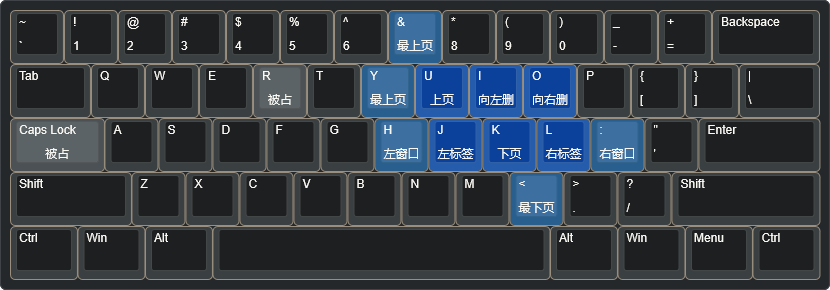
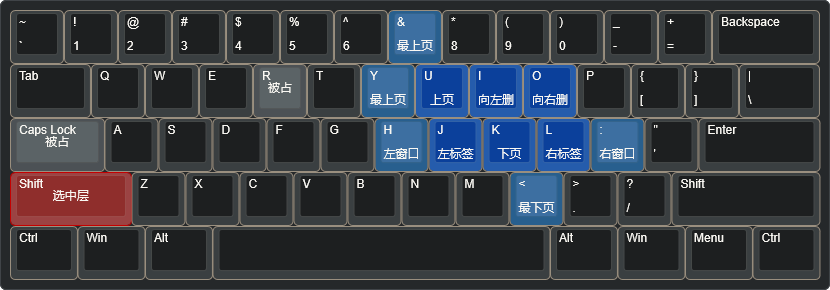
docs(kanata): update

Changed region(s): [[0.0, 0.5897, 0.1807, 0.8069], [0.3012, 0.2793, 0.3614, 0.3724], [0.0301, 0.4655, 0.0904, 0.5586]]

diff --git a/Kanata/InstallerAndScript/keyboard-layout-backup.md b/Kanata/InstallerAndScript/keyboard-layout-backup.md
@@ -17,8 +17,8 @@
 ```json
 ["~\n`","!\n1","@\n2","#\n3","$\n4","%\n5","^\n6",{c:"#2D6CA1"},"&\n\n\n\n\n\n\n\n\n\n最上",{c:"#cccccc"},"*\n8","(\n9",")\n0","_\n-","+\n=",{w:2},"Backspace"],
 [{w:1.5},"Tab","Q","W",{c:"#b35050"},"E\n\n\n\n\n\n\n\n\n数字层","R\n\n\n\n\n\n\n\n\n页层\n选中页","T\n\n\n\n\n\n\n\n\n数字层",{c:"#2D6CA1"},"Y\n\n\n\n\n\n\n\n\n\n最上",{c:"#407DD5"},"U\n\n\n\n\n\n\n\n\n\n上",{c:"#2D6CA1"},"I\n\n\n\n\n\n\n\n\n\n向左删","O\n\n\n\n\n\n\n\n\n\n向右删",{c:"#cccccc"},"P","{\n[","}\n]",{w:1.5},"|\n\\"],
-[{c:"#615555",w:1.75},"Caps Lock\n\n\n\n\n\n\n\n\n\n被占",{c:"#cccccc"},"A","S",{c:"#b35050"},"D\n\n\n\n\n\n\n\n\n词层\n选中词","F\n\n\n\n\n\n\n\n\n行层\n选中行","G\n\n\n\n\n\n\n\n\n词层\n选中词",{c:"#2D6CA1"},"H\n\n\n\n\n\n\n\n\n\n最左",{c:"#407DD5"},"J\n\n\n\n\n\n\n\n\n\n左","K\n\n\n\n\n\n\n\n\n\n下","L\n\n\n\n\n\n\n\n\n\n右",{c:"#2D6CA1"},":\n\n\n\n\n\n\n\n\n\n最右",{c:"#cccccc"},"\"\n'",{w:2.25},"Enter"],
-[{w:2.25},"Shift","Z","X","C","V","B","N","M",{c:"#2D6CA1"},"<\n\n\n\n\n\n\n\n\n\n最下",{c:"#cccccc"},">\n.","?\n/",{w:2.75},"Shift"],
+[{c:"#615555",w:1.75},"Caps Lock\n\n\n\n\n\n\n\n\n被占",{c:"#cccccc"},"A","S",{c:"#b35050"},"D\n\n\n\n\n\n\n\n\n词层\n选中词","F\n\n\n\n\n\n\n\n\n行层\n选中行","G\n\n\n\n\n\n\n\n\n词层\n选中词",{c:"#2D6CA1"},"H\n\n\n\n\n\n\n\n\n\n最左",{c:"#407DD5"},"J\n\n\n\n\n\n\n\n\n\n左","K\n\n\n\n\n\n\n\n\n\n下","L\n\n\n\n\n\n\n\n\n\n右",{c:"#2D6CA1"},":\n\n\n\n\n\n\n\n\n\n最右",{c:"#cccccc"},"\"\n'",{w:2.25},"Enter"],
+[{c:"#b35050",w:2.25},"Shift\n\n\n\n\n\n\n\n\n选中层",{c:"#cccccc"},"Z","X","C","V","B","N","M",{c:"#2D6CA1"},"<\n\n\n\n\n\n\n\n\n\n最下",{c:"#cccccc"},">\n.","?\n/",{w:2.75},"Shift"],
 [{w:1.25},"Ctrl",{w:1.25},"Win",{w:1.25},"Alt",{a:5,w:6.25},"\n回车",{a:4,w:1.25},"Alt",{w:1.25},"Win",{w:1.25},"Menu",{w:1.25},"Ctrl"]
 ```
 
@@ -30,7 +30,7 @@
 ["~\n`","!\n1","@\n2","#\n3","$\n4","%\n5","^\n6",{c:"#2D6CA1"},"&\n\n\n\n\n\n\n\n\n\n最上",{c:"#cccccc"},"*\n8","(\n9",")\n0","_\n-","+\n=",{w:2},"Backspace"],
 [{w:1.5},"Tab","Q","W","E","R","T",{c:"#2D6CA1"},"Y\n\n\n\n\n\n\n\n\n\n最上",{c:"#407DD5"},"U\n\n\n\n\n\n\n\n\n\n最上","I\n\n\n\n\n\n\n\n\n\n删左行","O\n\n\n\n\n\n\n\n\n\n删右行",{c:"#cccccc"},"P","{\n[","}\n]",{w:1.5},"|\n\\"],
 [{c:"#615555",w:1.75},"Caps Lock\n\n\n\n\n\n\n\n\n被占",{c:"#cccccc"},"A","S","D",{c:"#615555"},"F\n\n\n\n\n\n\n\n\n被占\n选中行",{c:"#cccccc"},"G",{c:"#2D6CA1"},"H\n\n\n\n\n\n\n\n\n\n最左",{c:"#407DD5"},"J\n\n\n\n\n\n\n\n\n\n最左","K\n\n\n\n\n\n\n\n\n\n最下","L\n\n\n\n\n\n\n\n\n\n最右",{c:"#2D6CA1"},":\n\n\n\n\n\n\n\n\n\n最右",{c:"#cccccc"},"\"\n'",{w:2.25},"Enter"],
-[{w:2.25},"Shift","Z","X","C","V","B","N","M",{c:"#2D6CA1"},"<\n\n\n\n\n\n\n\n\n\n最下",{c:"#cccccc"},">\n.","?\n/",{w:2.75},"Shift"],
+[{c:"#b35050",w:2.25},"Shift\n\n\n\n\n\n\n\n\n选中层",{c:"#cccccc"},"Z","X","C","V","B","N","M",{c:"#2D6CA1"},"<\n\n\n\n\n\n\n\n\n\n最下",{c:"#cccccc"},">\n.","?\n/",{w:2.75},"Shift"],
 [{w:1.25},"Ctrl",{w:1.25},"Win",{w:1.25},"Alt",{a:7,w:6.25},"",{a:4,w:1.25},"Alt",{w:1.25},"Win",{w:1.25},"Menu",{w:1.25},"Ctrl"]
 ```
 
@@ -38,9 +38,9 @@
 
 ```json
 ["~\n`","!\n1","@\n2","#\n3","$\n4","%\n5","^\n6",{c:"#2D6CA1"},"&\n\n\n\n\n\n\n\n\n\n最上页",{c:"#cccccc"},"*\n8","(\n9",")\n0","_\n-","+\n=",{w:2},"Backspace"],
-[{w:1.5},"Tab","Q","W","E",{c:"#615555"},"R\n\n\n\n\n\n\n\n\n\n被占",{c:"#cccccc"},"T",{c:"#2D6CA1"},"Y\n\n\n\n\n\n\n\n\n\n最上页",{c:"#407DD5"},"U\n\n\n\n\n\n\n\n\n\n上页","I\n\n\n\n\n\n\n\n\n\n向左删","O\n\n\n\n\n\n\n\n\n\n向右删",{c:"#cccccc"},"P","{\n[","}\n]",{w:1.5},"|\n\\"],
-[{c:"#615555",w:1.75},"Caps Lock\n\n\n\n\n\n\n\n\n\n被占",{c:"#cccccc"},"A","S","D","F","G",{c:"#2D6CA1"},"H\n\n\n\n\n\n\n\n\n\n左窗口",{c:"#407DD5"},"J\n\n\n\n\n\n\n\n\n\n左标签","K\n\n\n\n\n\n\n\n\n\n下页","L\n\n\n\n\n\n\n\n\n\n右标签",{c:"#2D6CA1"},":\n\n\n\n\n\n\n\n\n\n右窗口",{c:"#cccccc"},"\"\n'",{w:2.25},"Enter"],
-[{w:2.25},"Shift","Z","X","C","V","B","N","M",{c:"#2D6CA1"},"<\n\n\n\n\n\n\n\n\n\n最下页",{c:"#cccccc"},">\n.","?\n/",{w:2.75},"Shift"],
+[{w:1.5},"Tab","Q","W","E",{c:"#615555"},"R\n\n\n\n\n\n\n\n\n被占",{c:"#cccccc"},"T",{c:"#2D6CA1"},"Y\n\n\n\n\n\n\n\n\n\n最上页",{c:"#407DD5"},"U\n\n\n\n\n\n\n\n\n\n上页","I\n\n\n\n\n\n\n\n\n\n向左删","O\n\n\n\n\n\n\n\n\n\n向右删",{c:"#cccccc"},"P","{\n[","}\n]",{w:1.5},"|\n\\"],
+[{c:"#615555",w:1.75},"Caps Lock\n\n\n\n\n\n\n\n\n被占",{c:"#cccccc"},"A","S","D","F","G",{c:"#2D6CA1"},"H\n\n\n\n\n\n\n\n\n\n左窗口",{c:"#407DD5"},"J\n\n\n\n\n\n\n\n\n\n左标签","K\n\n\n\n\n\n\n\n\n\n下页","L\n\n\n\n\n\n\n\n\n\n右标签",{c:"#2D6CA1"},":\n\n\n\n\n\n\n\n\n\n右窗口",{c:"#cccccc"},"\"\n'",{w:2.25},"Enter"],
+[{c:"#b35050",w:2.25},"Shift\n\n\n\n\n\n\n\n\n选中层",{c:"#cccccc"},"Z","X","C","V","B","N","M",{c:"#2D6CA1"},"<\n\n\n\n\n\n\n\n\n\n最下页",{c:"#cccccc"},">\n.","?\n/",{w:2.75},"Shift"],
 [{w:1.25},"Ctrl",{w:1.25},"Win",{w:1.25},"Alt",{a:7,w:6.25},"",{a:4,w:1.25},"Alt",{w:1.25},"Win",{w:1.25},"Menu",{w:1.25},"Ctrl"]
 ```
 
